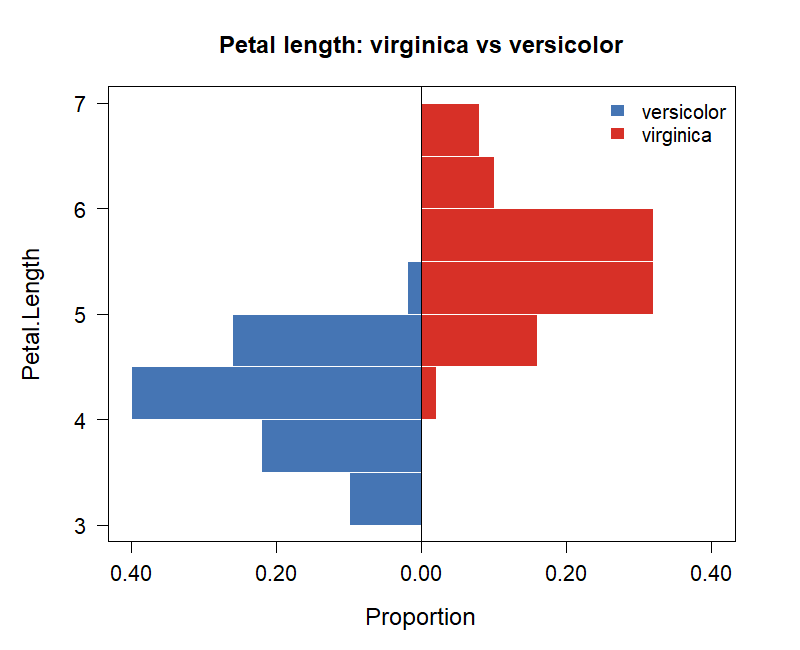
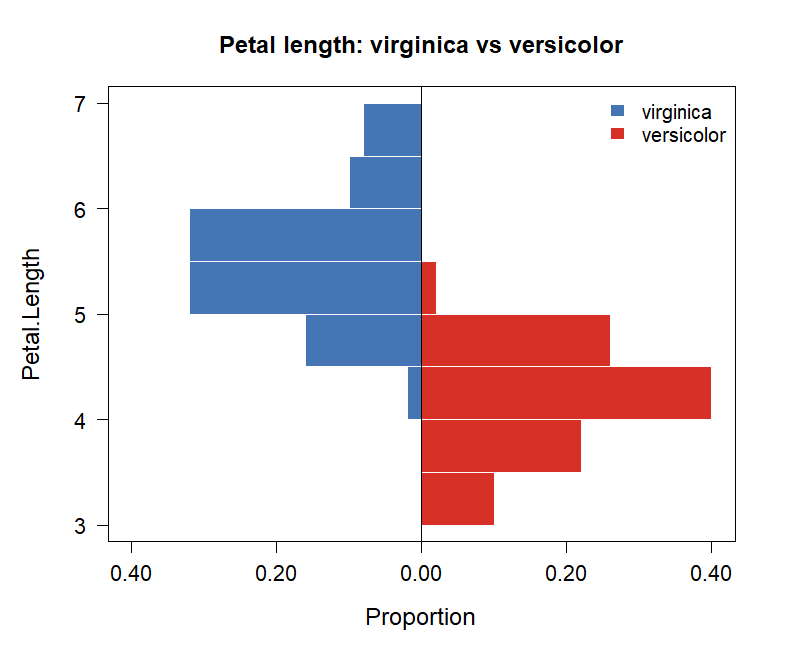
Align README volcano figure with Quick start group_lv order.

Changed region(s): [[0.1562, 0.1538, 0.9062, 0.8308], [0.8125, 0.1538, 0.9062, 0.2462]]

diff --git a/README.md b/README.md
@@ -6,7 +6,7 @@ Dependencies are limited to base R (`stats`, `graphics`, `grDevices`).
 
 ## Example
 
-Two-group comparison on `iris` (versicolor vs virginica), then significance filtering and a volcano plot:
+The volcano plot below is exactly what **Quick start §1–2** produce on `iris` (setosa removed): `group_lv = c("virginica", "versicolor")`, so positive `log2fc` means higher in virginica.
 
 ![Volcano plot from compare_two_groups and estimate_significance](man/figures/README-volcano.png)
 
